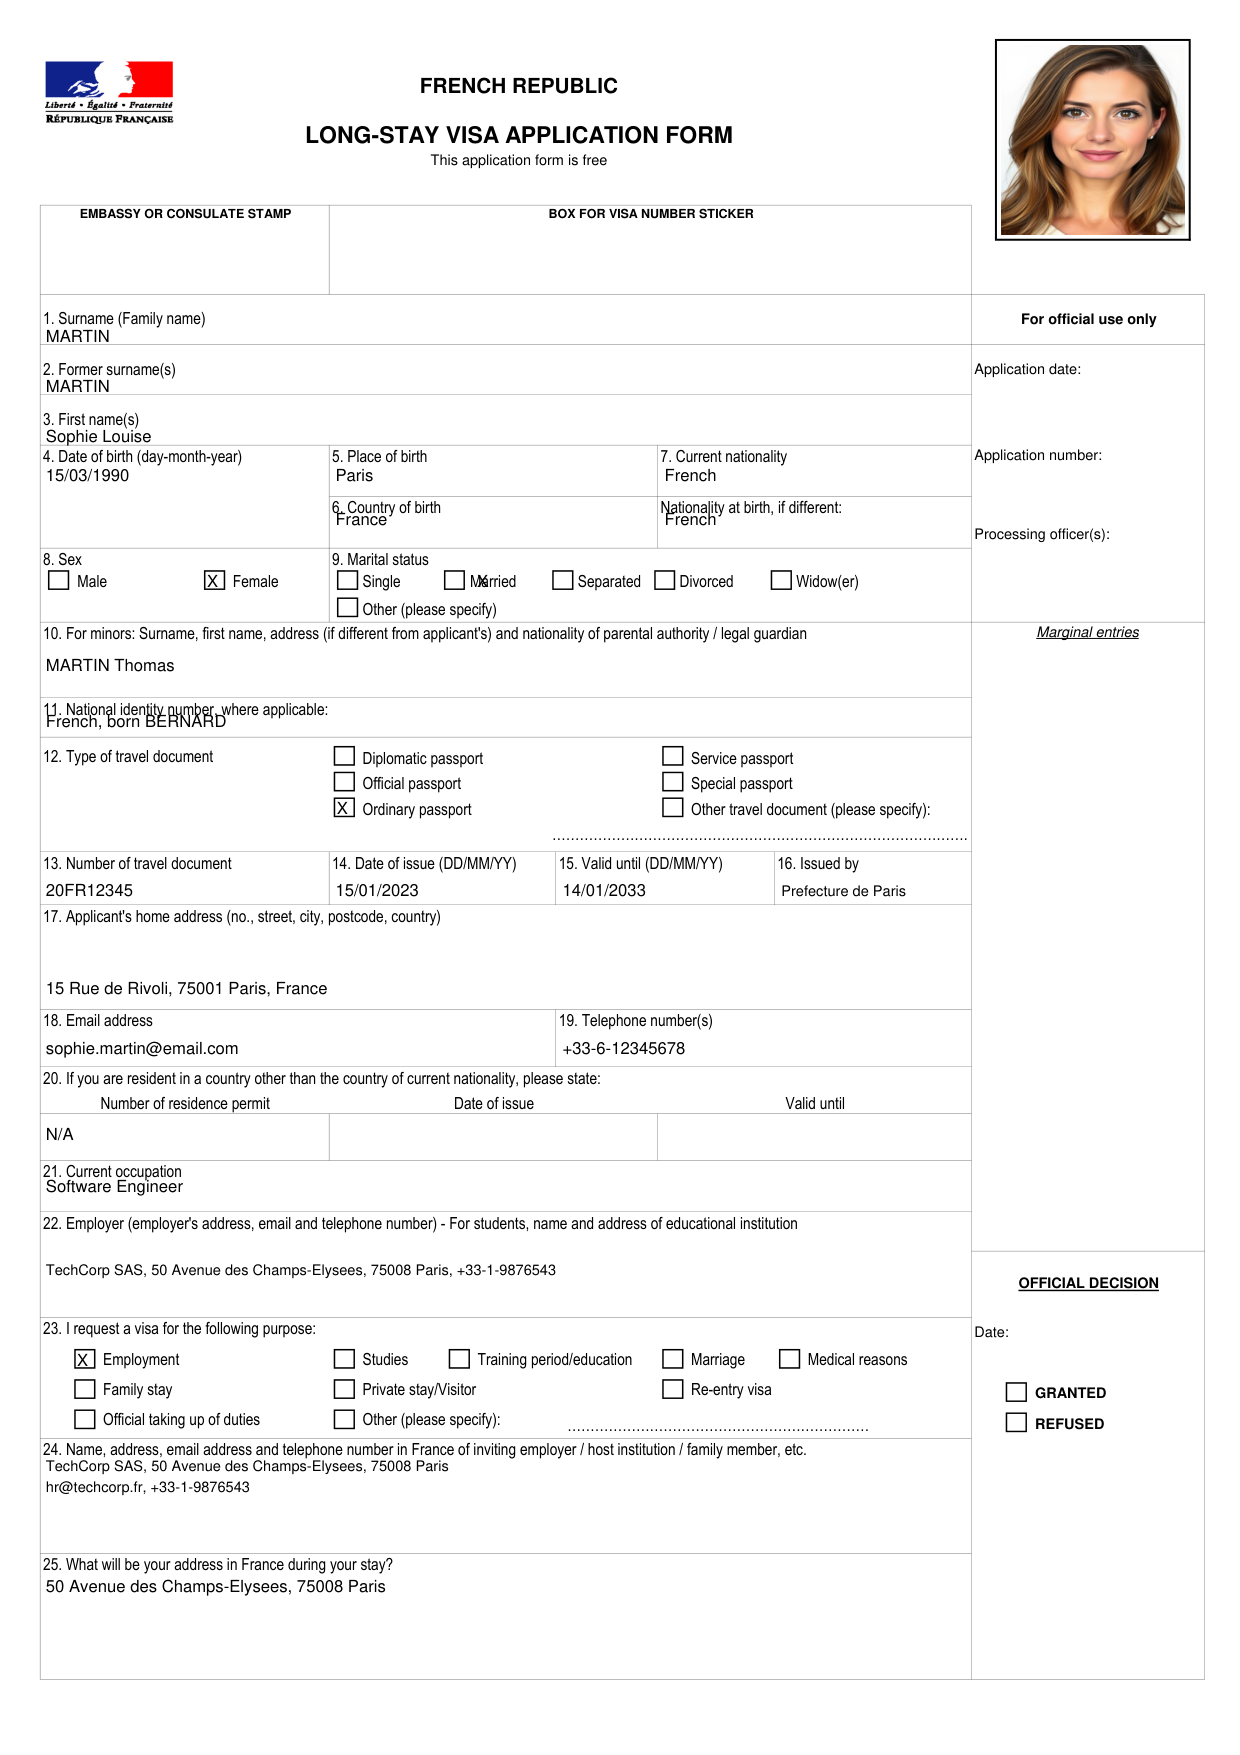
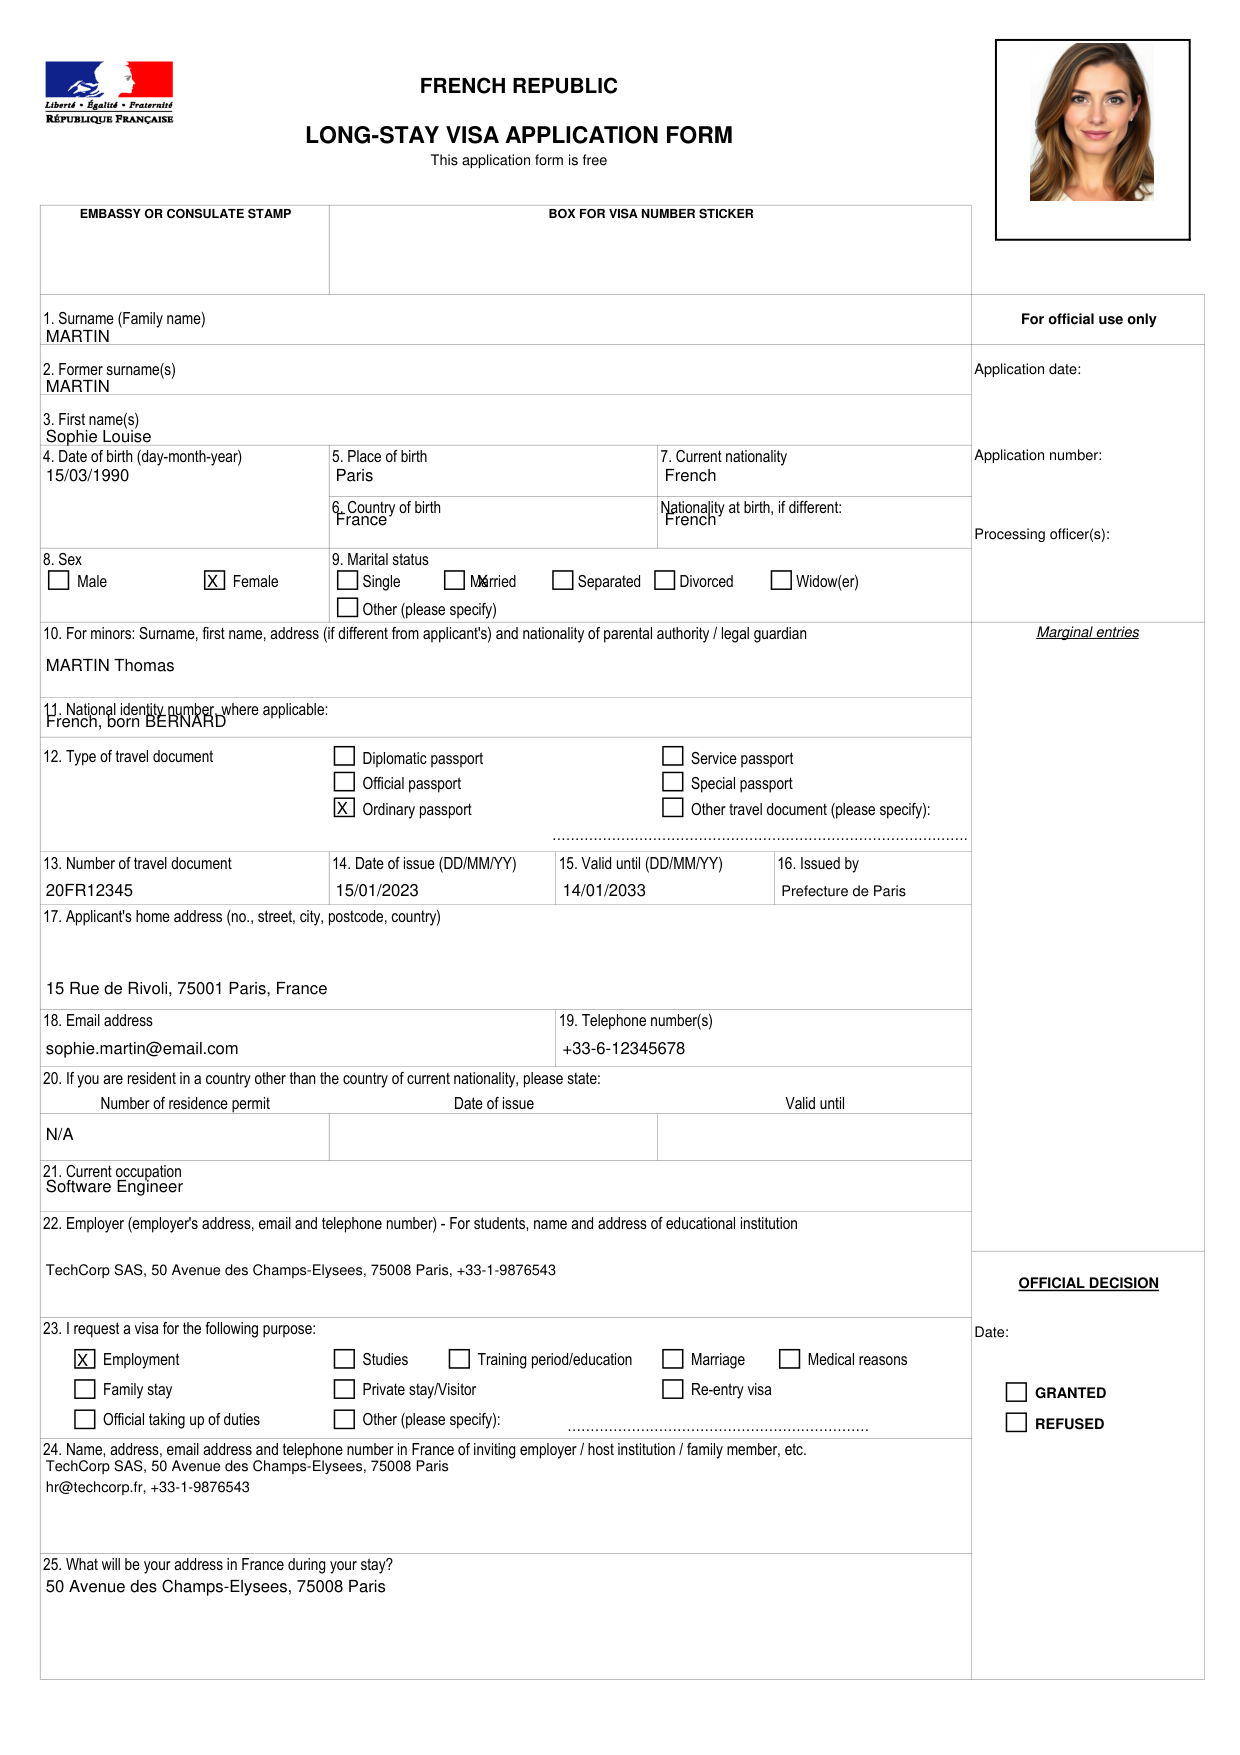
Add strikethrough support, fix photo placement and character box alignment
- Add strikethrough field type to fill.py for crossing out non-applicable
  form options (draws horizontal line through text at specified coordinates)
- Fix photo placement on France, Portugal, and Germany visa forms to use
  correct portrait proportions centered in photo boxes
- Fix Australian passenger card character box off-by-one (shift surname
  and given name characters left by one cell to align with first box)
- Split Australian flight number from single string into individual
  characters at tick-mark positions
- Add strikethrough fields to EU Schengen fill spec for Sex, Marital
  status, Passport type, Visa type, Number of entries, and Purpose of
  travel sections
- Regenerate gallery images, all 312 tests pass

Changed region(s): [[0.7968, 0.0, 0.9806, 0.1538]]

diff --git a/scripts/fill.py b/scripts/fill.py
@@ -19,7 +19,7 @@ The fill_spec.json format:
             "page": 0,
             "font_size": 10,
             "font": "Helvetica",
-            "type": "text" | "checkbox" | "choice" | "signature" | "photo",
+            "type": "text" | "checkbox" | "choice" | "signature" | "photo" | "strikethrough",
             "image_path": "/path/to/image.png",  # for signature/photo type
             "width": 150, "height": 50           # for signature (99x128 for photo)
         }
@@ -120,6 +120,18 @@ def create_overlay(fields_spec, page_width, page_height):
                 ph_h = field.get("height", 128)   # 45mm at 72dpi
                 c.drawImage(ImageReader(image_path), x, y,
                             width=ph_w, height=ph_h, mask="auto")
+        elif field_type == "strikethrough":
+            # Draw a horizontal line through text to strike it out
+            c.setFont(font_name, font_size)
+            text_width = c.stringWidth(str(value), font_name, font_size) if value else field.get("width", 30)
+            line_y = y + font_size * 0.35  # vertical center of text
+            c.setStrokeColorRGB(
+                color.get("r", 0) if color else 0,
+                color.get("g", 0) if color else 0,
+                color.get("b", 0) if color else 0,
+            )
+            c.setLineWidth(field.get("line_width", 0.8))
+            c.line(x, line_y, x + text_width, line_y)
         elif field_type == "checkbox":
             # Draw an X mark
             c.setFont(font_name, font_size)
